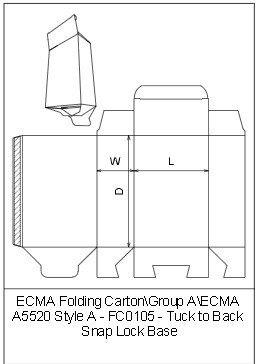
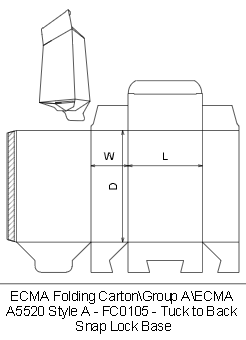
old-school positioning of the drawing space

Changed region(s): [[0.0, 0.0, 1.0, 1.0]]

diff --git a/components/editForm.jsx b/components/editForm.jsx
@@ -3,7 +3,7 @@ import { SimpleGrid } from '@mantine/core'
 import { Renderer } from './Renderer'
 import { defineCarton } from './generators/ECMA A5520 Style A - FC0105'
 
-const mmPerInch = 254
+const mmPerInch = 25.4
 
 export const EditForm = props => {
 	const { page, width, length, depth, onChange } = {
@@ -32,12 +32,12 @@ export const EditForm = props => {
 	const lengthChanged = newLength => { setLength(newLength) }
 
 	return <div>
-		<div id="render-container" style={{ width: "80%", height: "100%", float: "right" }}>
+		<div id="render-container" style={{ width: `${pageWidth}mm`, height: `${pageHeight}mm`, position: "absolute", left: "300px", top: "0" }}>
 			<div id="dimensions-overlay" style={{ position: "relative", left: "0.25em" }}> Depth {currentDepth}, Width {currentWidth}, Length {currentLength}</div>
 			<Renderer foldLines={foldLines} cutLines={cutLines} gluePoints={gluePoints} pageWidth={pageWidth} pageHeight={pageHeight}></Renderer>
 		</div>
 
-		<div id="input-form" style={{ width: "20%" }}>
+		<div id="input-form" style={{ width: "10%" }}>
 			<SimpleGrid cols={3}>
 
 				<div>Depth</div>

diff --git a/styles/globals.css b/styles/globals.css
@@ -15,16 +15,20 @@ a {
   box-sizing: border-box;
 }
 
-div#box-page {
+div#render-container {
 	border: 1px solid black;
+	position: "absolute";
+	 left: "300px";
+	  top: "0"
 }
 
 @media print {
-	div#box-page {
-		position: absolute;
-		top: 0;
-		left: 0;
-		border: none;
+
+	div#render-container {
+		border: 1px solid black;
+		position: "absolute";
+		left: "0px";
+		top: "0"
 	}
 
 	div#box-wrapper {
@@ -37,6 +41,7 @@ div#box-page {
 		position: absolute;
 		left: 0;
 		top: 0;
+		border: none;
 	}
 
 	div#input-form {

diff --git a/components/generators/ECMA A5520 Style A - FC0105.js b/components/generators/ECMA A5520 Style A - FC0105.js
@@ -10,7 +10,7 @@ export function defineCarton(depth, width, length,) {
 	const lockFlapLength = length * 0.475
 	const flapCurveRadius = width * 0.1
 	const tuckFlapLength = length * 0.3
-	const tongueArcRadius = length * 0.2
+	const tongueArcRadius = length * 0.125
 
 	const offset = {
 		x: 10,
